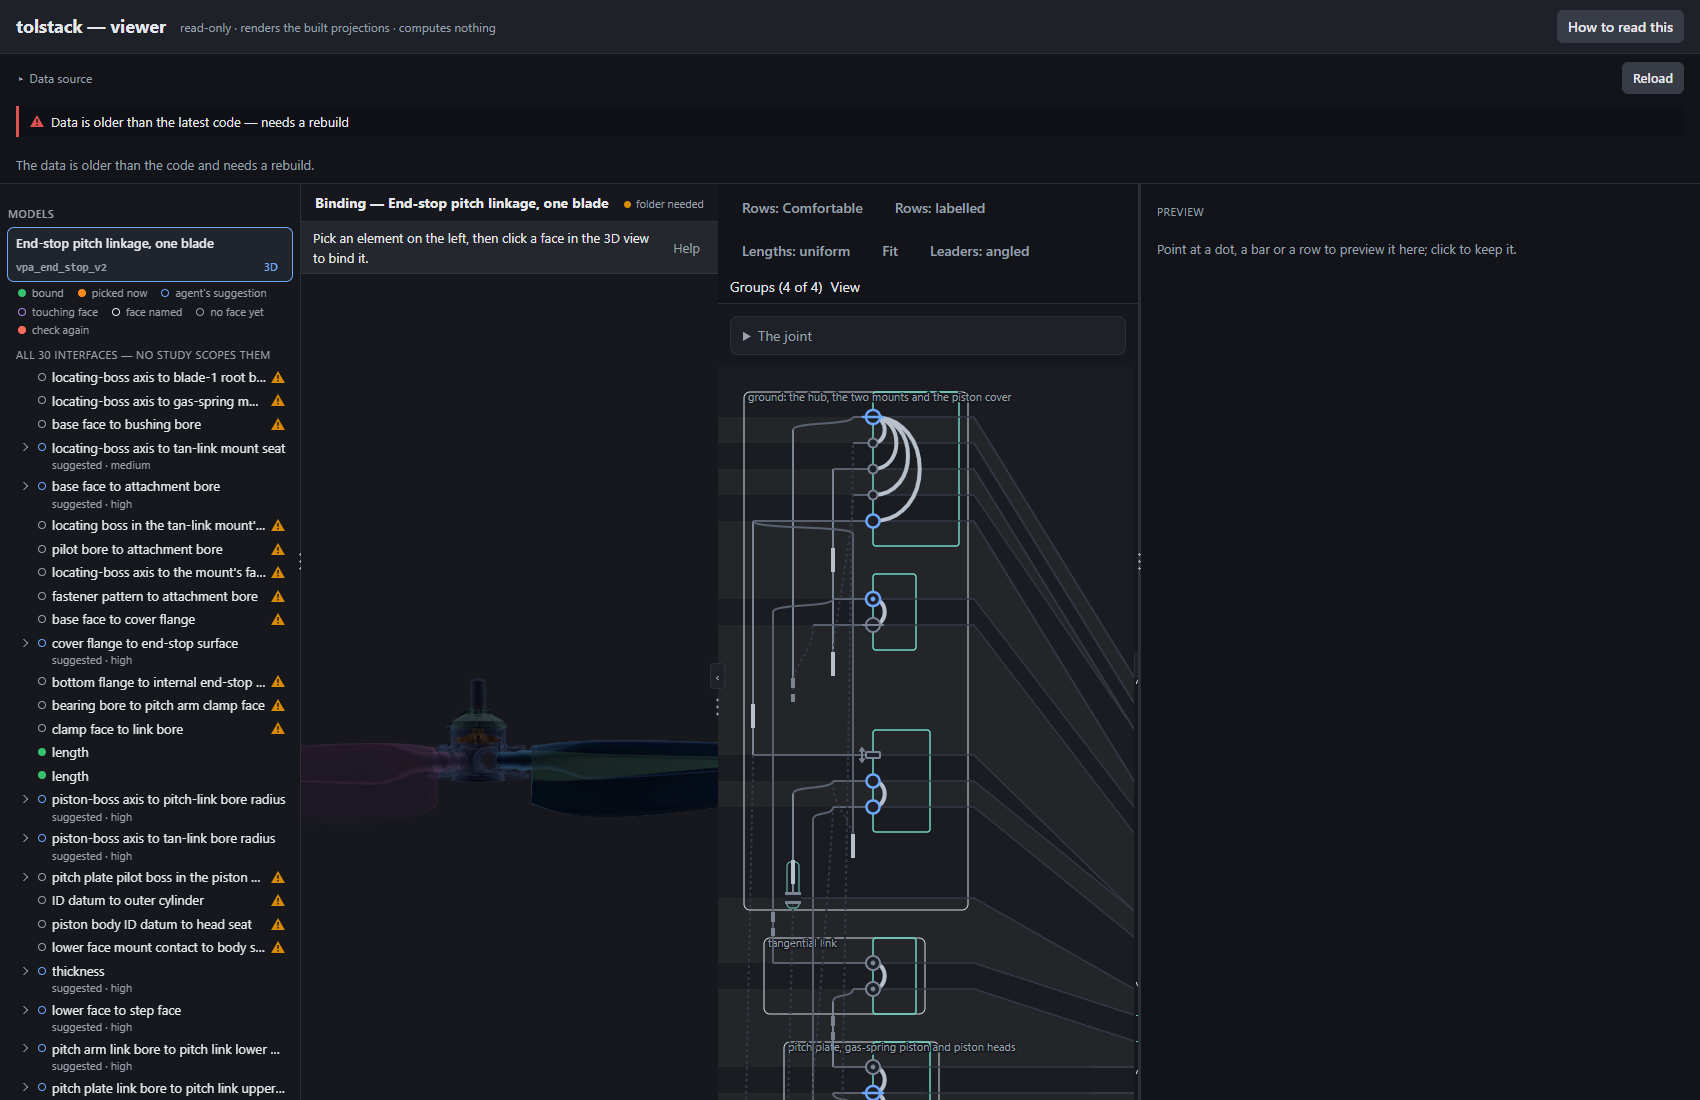
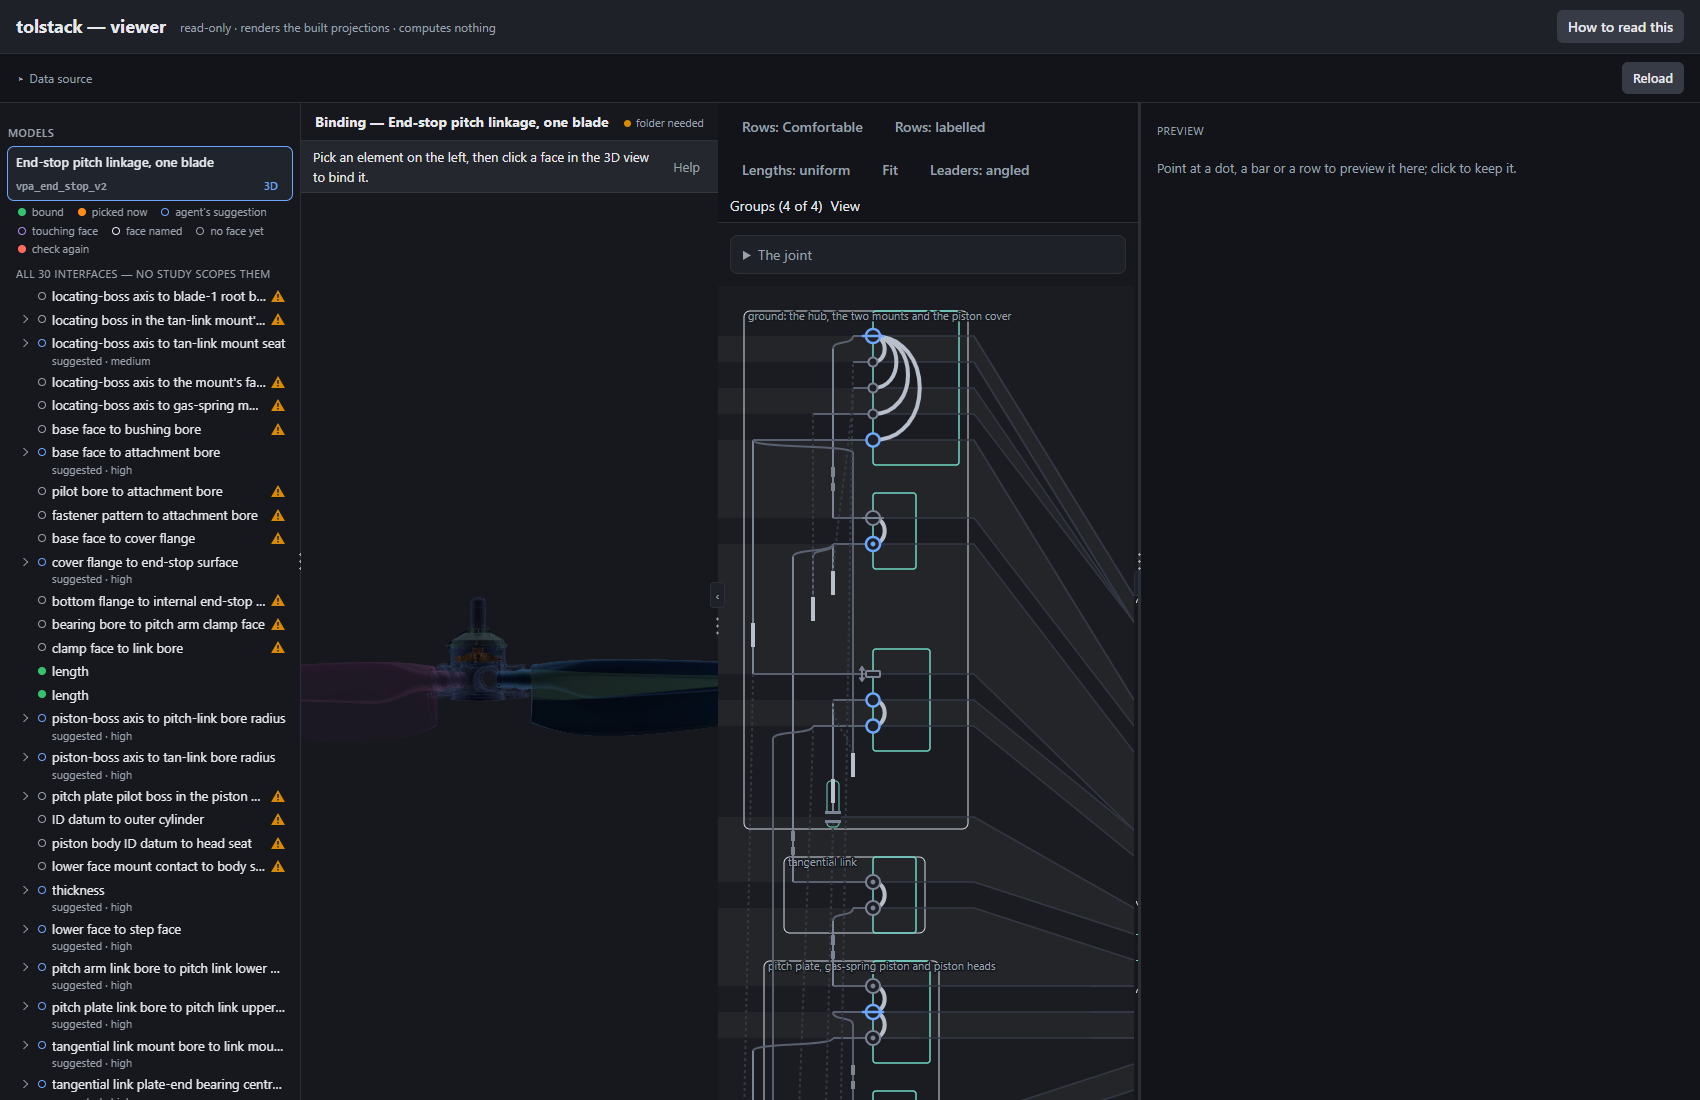
lesson shots retaken on the final walk; issue: the rail-holds-still browser check is red on integration

diff --git a/docs/sessions/lessons/LESSONS_20261108_the_end_stop_model_names_its_datums_right_and_folds_its_riders.md b/docs/sessions/lessons/LESSONS_20261108_the_end_stop_model_names_its_datums_right_and_folds_its_riders.md
@@ -1,0 +1,216 @@
+# LESSONS 2026-11-08 — the_end_stop_model_names_its_datums_right_and_folds_its_riders
+
+Model v2 (`docs/topologies/topology_vpa_end_stop_v2.json`) now has five bodies
+and no riders. The page reads them in Jeff's order. The datums are named for
+what they locate, the phantom hub–plate edge is gone, and the tan-link mount
+has its compound datum. One DoD bullet is **not met**: the P2 sweep leaves the
+two piston heads standing still. Why, and who owns the fix, is below.
+
+## The shots (looked at)
+
+`docs/sessions/lessons/shots/end_stop_names_riders/`:
+
+- `2_v2_dag_1600.png` and `2_v2_dag_2560_full.png`: v2's DAG and grid.
+- `3_v1_dag_1600_after.png` against `before_v1_dag_1600.png`: v1, unchanged.
+- `4_*` to `6_*`: the 3D pane on v2 at rest, mid-sweep and at the low stop.
+
+All of them were taken from this tree's projections, built into a scratch data
+root (`data/scratch/end_stop_names_riders/`) and served by
+`tests/debug_model_v2_shots.mjs --projections`, so the main checkout's shared
+projections were never overwritten from a branch.
+
+What I read off them:
+
+- **Grid, top to bottom:**
+  - hub (3 rows)
+  - tan-link mount: pilot, seat, fastener pattern, attachment bore
+  - gas-spring mount
+  - cover
+  - tangential link
+  - pitch plate, then piston, then lower head, then upper head
+  - pitch link
+  - pitch arm, then blade root
+- **Hub → mount edge:** the first edge out of the hub into the tan-link mount
+  (`hub_boss_in_tan_link_mount_pilot`) is the row directly below the hub's
+  three rows.
+- **Containers:** each body is one container, and no body holds a part that is
+  not in its `parts`.
+- **"Spindle":** no row says it.
+- **What stayed the same:** the "data is older than the code" banner shows on
+  every shot. That is the scratch projection's provenance against a dirty or
+  moved tree, not a page fault.
+
+## Renames (ids frozen)
+
+| id | old name | new name |
+| --- | --- | --- |
+| node `hub_spindle_bore_axis` | hub spindle bore axis | hub locating-boss axis (tan-link mount pilot) |
+| node `pitch_plate_spindle_bore_axis` | pitch plate pilot boss axis | pitch plate piston-locating boss axis |
+| edge `hub_blade_axis_offset` | spindle axis to blade-1 root bearing axis | locating-boss axis to blade-1 root bore axis |
+| edge `hub_spindle_to_tan_link_mount_face` | spindle bore axis to tangential link mount seat | locating-boss axis to tan-link mount seat |
+| edge `hub_spindle_to_gas_spring_mount_face` | spindle bore axis to gas-spring mount seat | locating-boss axis to gas-spring mount seat |
+| edge `pitch_plate_attach_radius` | spindle axis to pitch-link bore radius | piston-boss axis to pitch-link bore radius |
+| edge `pitch_plate_tan_link_attach_radius` | spindle axis to tangential-link bore | piston-boss axis to tan-link bore radius |
+
+**The hub node's note.** The handoff asked for "concentric with the spindle by
+design". The new test bans the word "spindle" in every note, so the note now
+says: concentric by design with the main bearings the whole propeller turns
+on, and those bearings and the shaft are not in this model.
+
+**Body names.** Both changed to match their new members:
+
+- base: "ground: the hub, the two mounts and the piston cover"
+- pitch_plate: "pitch plate, gas-spring piston and piston heads"
+
+## The removed edge
+
+`hub_to_pitch_plate_spindle_coaxiality` (a `cylindrical_slide` gap) is gone
+from v2. The plate is located through the piston (`pitch_plate_pilot_in_piston`),
+the piston through the mount's bushings
+(`pitch_plate_slide_bushings_to_piston_body`), and the mount through its seat on
+the hub, so the hub's axis enters the stack nowhere.
+
+The sweep's "214373-002 driver 215177-001" joint is linkage's kinematic
+abstraction of the travel degree of freedom, not a tolerance edge. Its two
+nodes stay, because the sweep names both by id. v1 keeps the edge, and Jeff's
+binding on it in v1's log is untouched.
+
+## New nodes and edges (the tan-link mount's compound datum)
+
+| id | kind | interface / node kind | what it is |
+| --- | --- | --- | --- |
+| `tan_link_mount_pilot_bore` | node | `datum_feature`, cylindrical face on the mount | locates on the hub's boss |
+| `tan_link_mount_fastener_clocking` | node | `mating_surface`, on mount and hub | rotation constrained by the perimeter fasteners |
+| `hub_boss_in_tan_link_mount_pilot` | gap edge | `pin_in_bore` | hub locating boss in the mount's pilot bore |
+| `tan_link_mount_pilot_to_bore` | structural (mount) | — | pilot bore to attachment bore (the bore's radial location) |
+| `hub_boss_to_tan_link_mount_fasteners` | structural (hub) | — | locating-boss axis to the hub's hole pattern for the mount |
+| `tan_link_mount_fasteners_to_bore` | structural (mount) | — | fastener pattern to attachment bore (clocking) |
+
+None of the new edges carries a `dimension`, and each note says what would
+close it.
+
+**Clocking interface word.** The vocabulary has none for "a bolted clocking".
+`interface` is a word on a gap edge only, and the topology refuses it on a
+structural edge. The repo already models a fastener clocking as one
+`mating_surface` node on both parts, with a structural edge on each side
+(v1's `pitch_arm_blade_root_clocking`). I followed that precedent and added no
+new word.
+
+## The walk-order rule, as implemented, and what it did to v1
+
+**Feasibility answer: the suggested rule cannot be a no-op on v1.** Applied to
+v1 unchanged, it moved the walk from 16/70/50 crossings on 14 columns to
+55/66/83 on 15. I then re-ordered v1's `bodies[]` and `parts` to the order v1
+draws today, and that did not reproduce v1's walk either (43/114/63). I
+measured each part of the rule separately:
+
+| part of the rule | effect on v1 |
+| --- | --- |
+| start on the first body's first part | no-op |
+| the current body's own deferred edges in `parts` order | no-op |
+| sorting a node's edges by part | moves v1 |
+| crossing into the earliest authored body | moves v1 |
+
+**So the rule is declared, not default.** `walk_order` is a new top-level
+topology field:
+
+- Vocabulary: `WALK_ORDERS = ("nearest_fork", "authored")` in
+  `tolerance_stack/topology.py`.
+- It is paired against `docs/DAG_TOPOLOGY.md`, "The vocabularies".
+- Python is the only reader, so it is not in `vocab.gen.js`.
+
+v2 declares `"walk_order": "authored"`. Under that value, `serialize_topology`:
+
+1. starts at the first node on the first body's first part;
+2. takes a node's in-body edges by the `parts` rank of the part each leads into
+   (staying on the same part first);
+3. after a body is done, walks its own deferred edges in `parts` order;
+4. then crosses into the earliest authored body not yet drawn;
+5. otherwise falls back to the nearest fork.
+
+**v1 is byte-identical.** The layout matches at the serializer, the projection
+entry matches, and `node tests/debug_model_v2_shots.mjs --dump-v1` produced the
+same rails SVG and grid markup before and after (`cmp` clean, 146,769 bytes).
+`tests/test_topology_projection.py::test_the_authored_walk_is_not_the_product_models`
+pins why it is not the default.
+
+**Two authoring choices made to fit the rule** (both are file order, so Jeff
+can re-order them):
+
+- **Blade parts.** Authored as `[pitch_arm, blade_root]`, because the loop
+  reaches the blade from the pitch link.
+- **Hub edges.** The pilot gap is listed first among the hub's three edges into
+  the tan-link mount. With the seat edge first, the viewer's block drawing
+  crossed itself 28 times against the walk's 24. The `[real]` check "drawn as
+  blocks … crossing itself no more than the builder's walk does" was red.
+  Pilot-first gives 23.
+
+**What the fold costs the page, measured.** Over every ordering I tried, v2's
+leader-vs-rail crossings after the spine mirror rose from 3 to 11–12. That is
+the fold and the new nodes, not the order. `apps/viewer/README.md` now says
+41 → 12. Bringing it down is the DAG/grid sibling's
+(`the_dag_and_grid_nest_coloured_bodies_and_compact_means_denser_rows`).
+
+**Still open from the five-body-column issue:** the blade is reached last, so
+its closing edge still runs back up to the hub's bore row. That is in the
+addendum on `ISSUE_20261108_model_v2s_five_body_dag_draws_a_column_not_a_loop.md`.
+
+## The 3D pane: heads do not move (DoD not met)
+
+`apps/annotate/app.js` poses a part in a sweep only in three cases:
+
+- the run's subject lists it (linkage's lists name neither head nor the cover);
+- its body `rides_with` the subject;
+- it is carried inside a matched occurrence.
+
+Folding deletes the rider bodies, so the heads now stand still at their
+assembly position while the piston moves. The cover is on ground, so it is
+right where it is.
+
+The measurement: the sweep's anchor rows, printed by the shots script, have no
+row for 214699, 214698 or 214958 (before the fold the heads were `rides` rows).
+
+The fix is in `apps/`, which this handoff fences out. The scene sibling owns
+`apps/annotate/` and launches after this merges. Filed as
+`docs/issues/ISSUE_20261108_the_sweep_leaves_model_v2s_folded_piston_heads_standing_still.md`
+(code-red), with the fix and its v1 caveat.
+
+The rest of that DoD bullet holds: the pane says v2 and the P2 run plays.
+
+## The gas-spring mount — Jeff's open question
+
+The tan-link mount got boss, seat and fasteners. The gas-spring mount still has
+one seat node (`gas_spring_mount_hub_face`) and one hub edge into it. Jeff has
+not said how it locates on the hub: a pilot, dowels, or the bolt pattern alone.
+It would want the same three-part datum once he does. Not done, per the
+handoff.
+
+## apps/ touched despite the fence — figures only
+
+The viewer's `[real]` tier re-derives figures in `apps/viewer/README.md` and in
+a comment in `apps/viewer/views/topology.js` from the live projection, and v2's
+change moved them. Four were updated, figures only, so a merged tree stays
+green:
+
+- leader-vs-rail crossings: 256 → 25 became 260 → 34;
+- hover/click divergence: 58 of 102 became 60 of 104;
+- membership count: 44 became 45, and its complement 14 became 15;
+- rail allocations: 17 over 7 became 18 over 7.
+
+No behaviour changed under `apps/`.
+
+## Gotchas
+
+- **Heredocs ate a backslash in Python.** Through the Bash tool, a
+  `'''…\\n…'''` inside a `python - <<'EOF'` heredoc reached Python as a real
+  newline. Write the script to the scratchpad with the Write tool instead.
+- **Scratch data root for the `[real]` tiers from a worktree.**
+  1. Copy the main checkout's `data/projections` into a scratch `repo/data`.
+  2. Junction `inbox` and `meshes` into it, and junction the worktree's `docs`
+     as `repo/docs`, because worksheets are read from `--repo`.
+  3. Rebuild all seven projections into it with `--data-root … --allow-older-tree`.
+  4. Pass `--repo <scratch>/repo` to the runners.
+
+  The annotate runner has no `--repo`. It reads the worktree's own `data/`
+  first, so I copied projections there (gitignored). The browser tier needs
+  `node_modules`: junction the main checkout's.

diff --git a/docs/issues/ISSUE_20261108_the_rail_holds_still_browser_check_is_red_on_integration.md b/docs/issues/ISSUE_20261108_the_rail_holds_still_browser_check_is_red_on_integration.md
@@ -1,0 +1,35 @@
+---
+type: bug
+priority: high
+status: open
+area: tests/browser-truth
+reporter: agent
+found_by: docs/sessions/HANDOFF_20261108_the_end_stop_model_names_its_datums_right_and_folds_its_riders.md
+---
+
+# The "annotate rail holds still" browser check is red on integration
+
+`node scripts/run_viewer_browser_tests.mjs --repo C:/workspace/tolstack --only "rail holds still"`
+was run against the main checkout's projections (integration `d9062b2d`, before
+any of this handoff's changes) on 2026-11-08. It reports 11 of 17 sub-checks
+passed, and the suite is
+`annotate rail holds still (bodies under Bodies, joint words, framing, the second face)`.
+These six sub-checks fail:
+
+- `[real] a Take keeps the nav's scroll, and the joint row stays where it was on screen`
+- `[real] after one end is taken the other end's candidate list is open and selected, still suggested, and no edge-feature row is listed`
+- `[real] the scene tree's rows say what they are: body, part, joint, end and candidate rows each carry their kind, and every joint end carries a mark from the annotator's vocabulary`
+- `[real] the end taken this session wears the picked-now mark, filled in the scene's pick orange, and its partner does not`
+- `[real] each level of the tree steps in by a full indent: an end from its joint, a candidate face from its end`
+- `[real] a body, a part, a joint, an end and a candidate face each draw a glyph`
+
+The same six fail against projections built from the branch that found this,
+which does not touch the pitch link's edges. The check takes the pitch link
+upper end's suggested face
+(`scripts/run_viewer_browser_tests.mjs`, ~line 9083, regex `UPPER`).
+
+Likely cause: the live end has no `Take`-able `face=` candidate row. The
+bindings projection is now rebuilt by
+`the_bindings_projection_folds_the_events_jeff_accepted`, and the end may be
+bound already, or v2 may be the default model the rail opens on. That needs
+checking by whoever takes this. The remaining 42 of the 43 browser suites pass.
